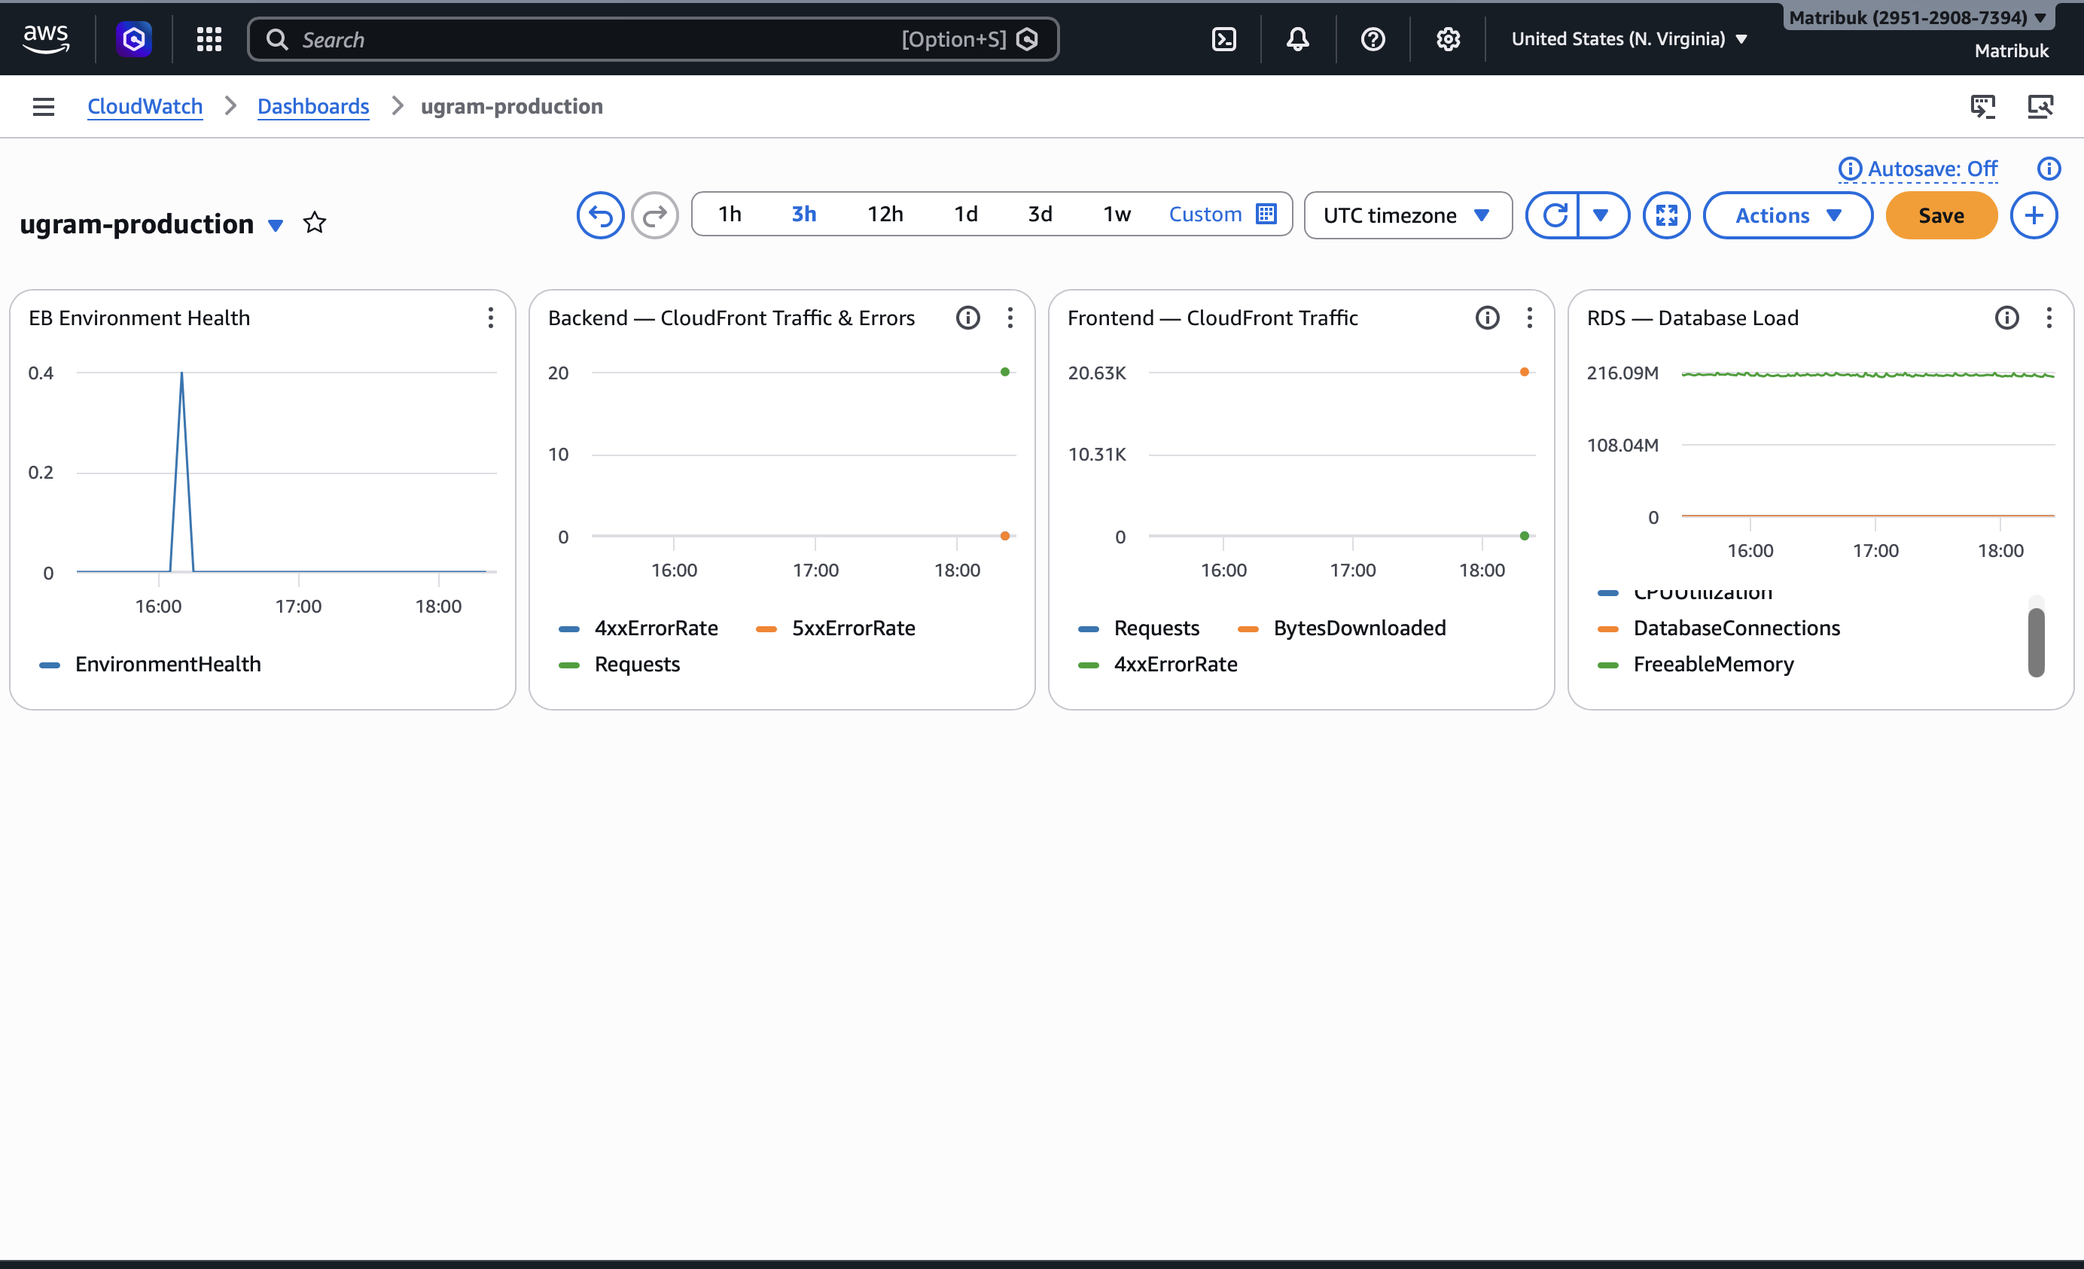
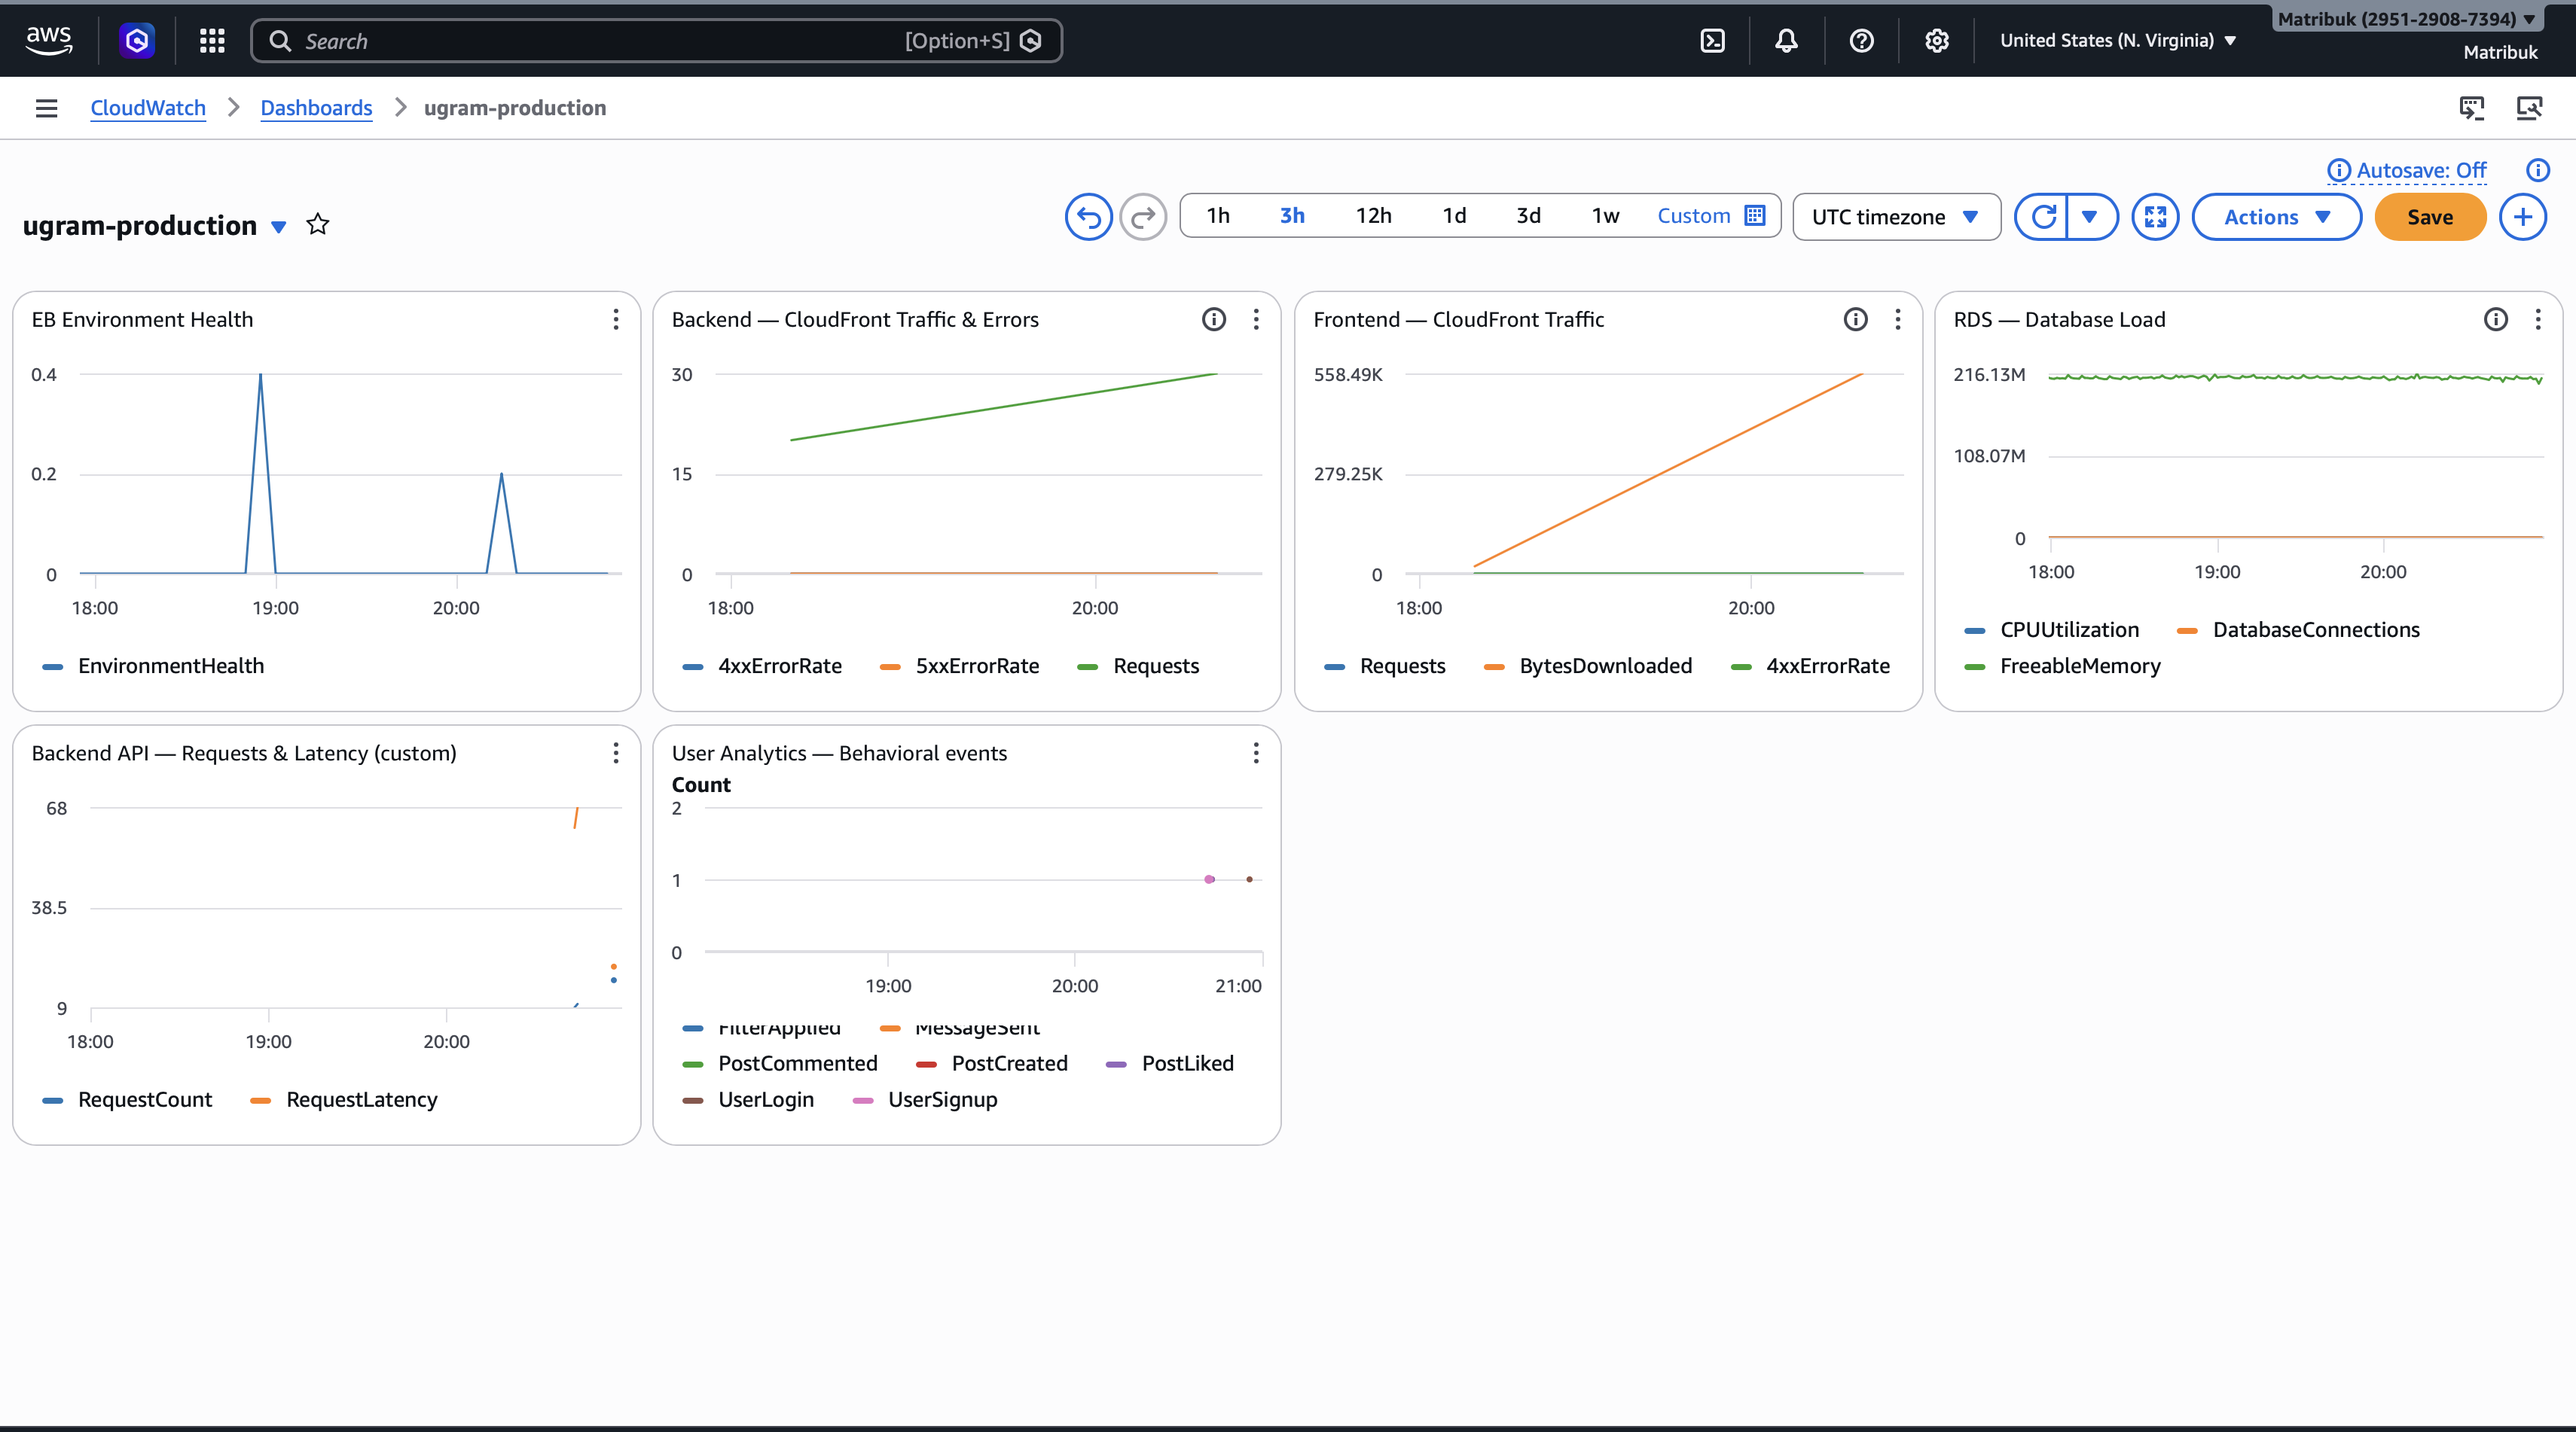
[DOCS] update dashboard screenshots and widget list with custom metrics

diff --git a/docs/DEPLOYMENT.md b/docs/DEPLOYMENT.md
@@ -742,6 +742,8 @@ En complément du log streaming, un **dashboard CloudWatch** agrège les métriq
 | **Backend — CloudFront Traffic & Errors** | `AWS/CloudFront` / `DistributionId=EFJLNQC8439I9` | `Requests`, `4xxErrorRate`, `5xxErrorRate` | Sum / Average / Average | 5 min |
 | **Frontend — CloudFront Traffic** | `AWS/CloudFront` / `DistributionId=E2X9BNNOJ04EPW` | `Requests`, `BytesDownloaded`, `4xxErrorRate` | Sum / Sum / Average | 5 min |
 | **RDS — Database Load** | `AWS/RDS` / `DBInstanceIdentifier=ugram-db-prod` | `CPUUtilization`, `DatabaseConnections`, `FreeableMemory` | Average | 1 min |
+| **Backend API — Requests & Latency (custom)** | `Ugram/API` | `RequestCount`, `RequestLatency` | Sum / Average | 1 min |
+| **User Analytics — Behavioral events (custom)** | `Ugram/Analytics` | `UserSignup`, `UserLogin`, `PostCreated`, `PostLiked`, `PostCommented`, `MessageSent`, `FilterApplied` | Sum | 1 min |
 
 **Échelle `EnvironmentHealth`:** 0 = Ok (green), 5 = Info, 10 = Warning, 15 = Degraded, 20 = Severe, 25 = NoData.
 
@@ -798,9 +800,13 @@ Les métriques EB détaillées (`ApplicationRequestsTotal/2xx/4xx/5xx`, `Applica
 **Topic:** `ugram-production-alerts`
 **ARN:** `arn:aws:sns:us-east-1:295129087394:ugram-production-alerts`
 **Protocole:** Email
-**Subscriber:** `antonin.leprest@epitech.eu` (subscription confirmée)
+**Subscribers:** tous les membres de l'équipe 12 (subscriptions confirmées via le lien AWS)
 
 Quand une alarme passe en **`In alarm`**, SNS publie un message au topic qui envoie un email à chaque subscriber confirmé. Le contenu contient le nom de l'alarme, la métrique, la valeur observée vs le threshold, et un lien vers la console CloudWatch.
+
+**Screenshot des subscriptions confirmées:**
+
+![Team SNS subscriptions](./assets/team_alert.png)
 
 Pour ajouter d'autres destinataires : console SNS → `ugram-production-alerts` → **Create subscription** → protocole `Email` → endpoint = email → confirmer via le mail reçu.
 

diff --git a/README.md b/README.md
@@ -79,6 +79,8 @@ Un **dashboard CloudWatch** `ugram-production` agrège les métriques clés de l
 - **Backend — CloudFront Traffic & Errors** — requêtes, 4xxErrorRate, 5xxErrorRate sur la distribution BE
 - **Frontend — CloudFront Traffic** — requêtes, BytesDownloaded, 4xxErrorRate sur la distribution FE
 - **RDS — Database Load** — CPUUtilization, DatabaseConnections, FreeableMemory
+- **Backend API — Requests & Latency (custom)** — `RequestCount` + `RequestLatency` du middleware NestJS (namespace `Ugram/API`)
+- **User Analytics — Behavioral events (custom)** — events `UserSignup`, `UserLogin`, `PostCreated`, `PostLiked`, `PostCommented`, `MessageSent`, `FilterApplied` (namespace `Ugram/Analytics`)
 
 **Dashboard CloudWatch:**
 
@@ -94,6 +96,10 @@ Deux **alarmes CloudWatch** notifient par email via un topic SNS (`ugram-product
 **Alarmes CloudWatch:**
 
 ![CloudWatch Alarms](./docs/assets/prod_alarms.png)
+
+Tous les membres de l'équipe sont subscribers du topic SNS `ugram-production-alerts` et reçoivent les alertes par email (subscriptions confirmées via le lien de confirmation AWS) :
+
+![Team SNS subscriptions](./docs/assets/team_alert.png)
 
 Coût : **$0** — Free Tier CloudWatch couvre 10 alarmes, 3 dashboards, 1M requêtes API/mois et SNS couvre 1000 emails/mois.
 
